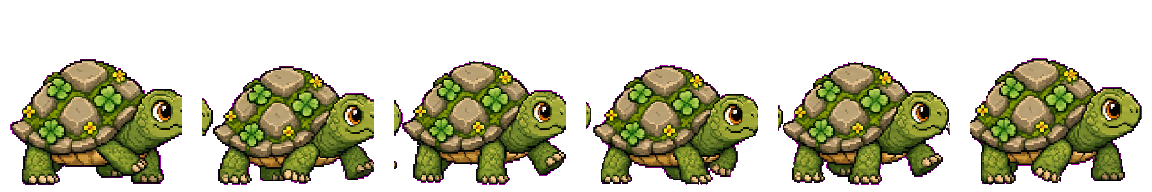
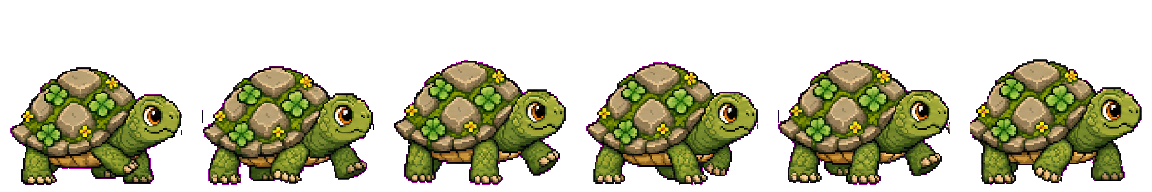
Fix Meadow Turtle nose clipping and size

Changed region(s): [[0.0, 0.2812, 1.0, 0.9688]]

diff --git a/public/demo64/game-original.js b/public/demo64/game-original.js
@@ -175,9 +175,9 @@
     this.load.image('cursed-scarecrow-idle', A + 'creatures/campo/cursed_scarecrow/idle.png?v=small1');
     this.load.spritesheet('cursed-scarecrow-walk', A + 'creatures/campo/cursed_scarecrow/walk.png?v=small1', { frameWidth: 192, frameHeight: 192 });
     this.load.spritesheet('cursed-scarecrow-attack', A + 'creatures/campo/cursed_scarecrow/attack.png?v=small1', { frameWidth: 192, frameHeight: 192 });
-    this.load.image('meadow-turtle-idle', A + 'creatures/campo/meadow_turtle/idle.png?v=padded1');
-    this.load.spritesheet('meadow-turtle-walk', A + 'creatures/campo/meadow_turtle/walk.png?v=padded1', { frameWidth: 192, frameHeight: 192 });
-    this.load.spritesheet('meadow-turtle-attack', A + 'creatures/campo/meadow_turtle/attack.png?v=padded1', { frameWidth: 192, frameHeight: 192 });
+    this.load.image('meadow-turtle-idle', A + 'creatures/campo/meadow_turtle/idle.png?v=nosefix1');
+    this.load.spritesheet('meadow-turtle-walk', A + 'creatures/campo/meadow_turtle/walk.png?v=nosefix1', { frameWidth: 192, frameHeight: 192 });
+    this.load.spritesheet('meadow-turtle-attack', A + 'creatures/campo/meadow_turtle/attack.png?v=nosefix1', { frameWidth: 192, frameHeight: 192 });
     this.load.image('deer-king-idle', A + 'creatures/campo/deer_king/idle.png?v=cartoon1');
     this.load.image('deer-king-enraged', A + 'creatures/campo/deer_king/enraged.png?v=polish1');
     this.load.spritesheet('deer-king-walk', A + 'creatures/campo/deer_king/walk.png?v=walk3', { frameWidth: 256, frameHeight: 256 });
@@ -651,8 +651,8 @@
     {
       const cont = this.add.container(0, 0);
       const spr = this.add.sprite(0, 34, 'meadow-turtle-idle')
-        .setOrigin(0.5, 184 / 192).setScale(0.50);
-      const lbl = this.add.text(0, -54, 'Tartaruga do Prado', {
+        .setOrigin(0.5, 184 / 192).setScale(0.40);
+      const lbl = this.add.text(0, -47, 'Tartaruga do Prado', {
         fontFamily: 'sans-serif', fontSize: '12px', color: '#e8f5a4',
         stroke: '#000', strokeThickness: 3,
       }).setOrigin(0.5);

diff --git a/public/demo64/game.js b/public/demo64/game.js
@@ -1,7 +1,7 @@
 /* GameRPG loader */
 (function () {
   const script = document.createElement('script');
-  script.src = './game-original.js?v=turtle-padded-v1';
+  script.src = './game-original.js?v=turtle-nosefix-v1';
   script.onerror = () => console.error('[GameRPG] Falha ao carregar o jogo principal.');
   document.head.appendChild(script);
 })();

diff --git a/public/demo64/index.html b/public/demo64/index.html
@@ -581,6 +581,6 @@ addEventListener('keydown', e => {
   sync();
 })();
 </script>
-<script src="game.js?v=turtle-padded-v1"></script>
+<script src="game.js?v=turtle-nosefix-v1"></script>
 </body>
 </html>
